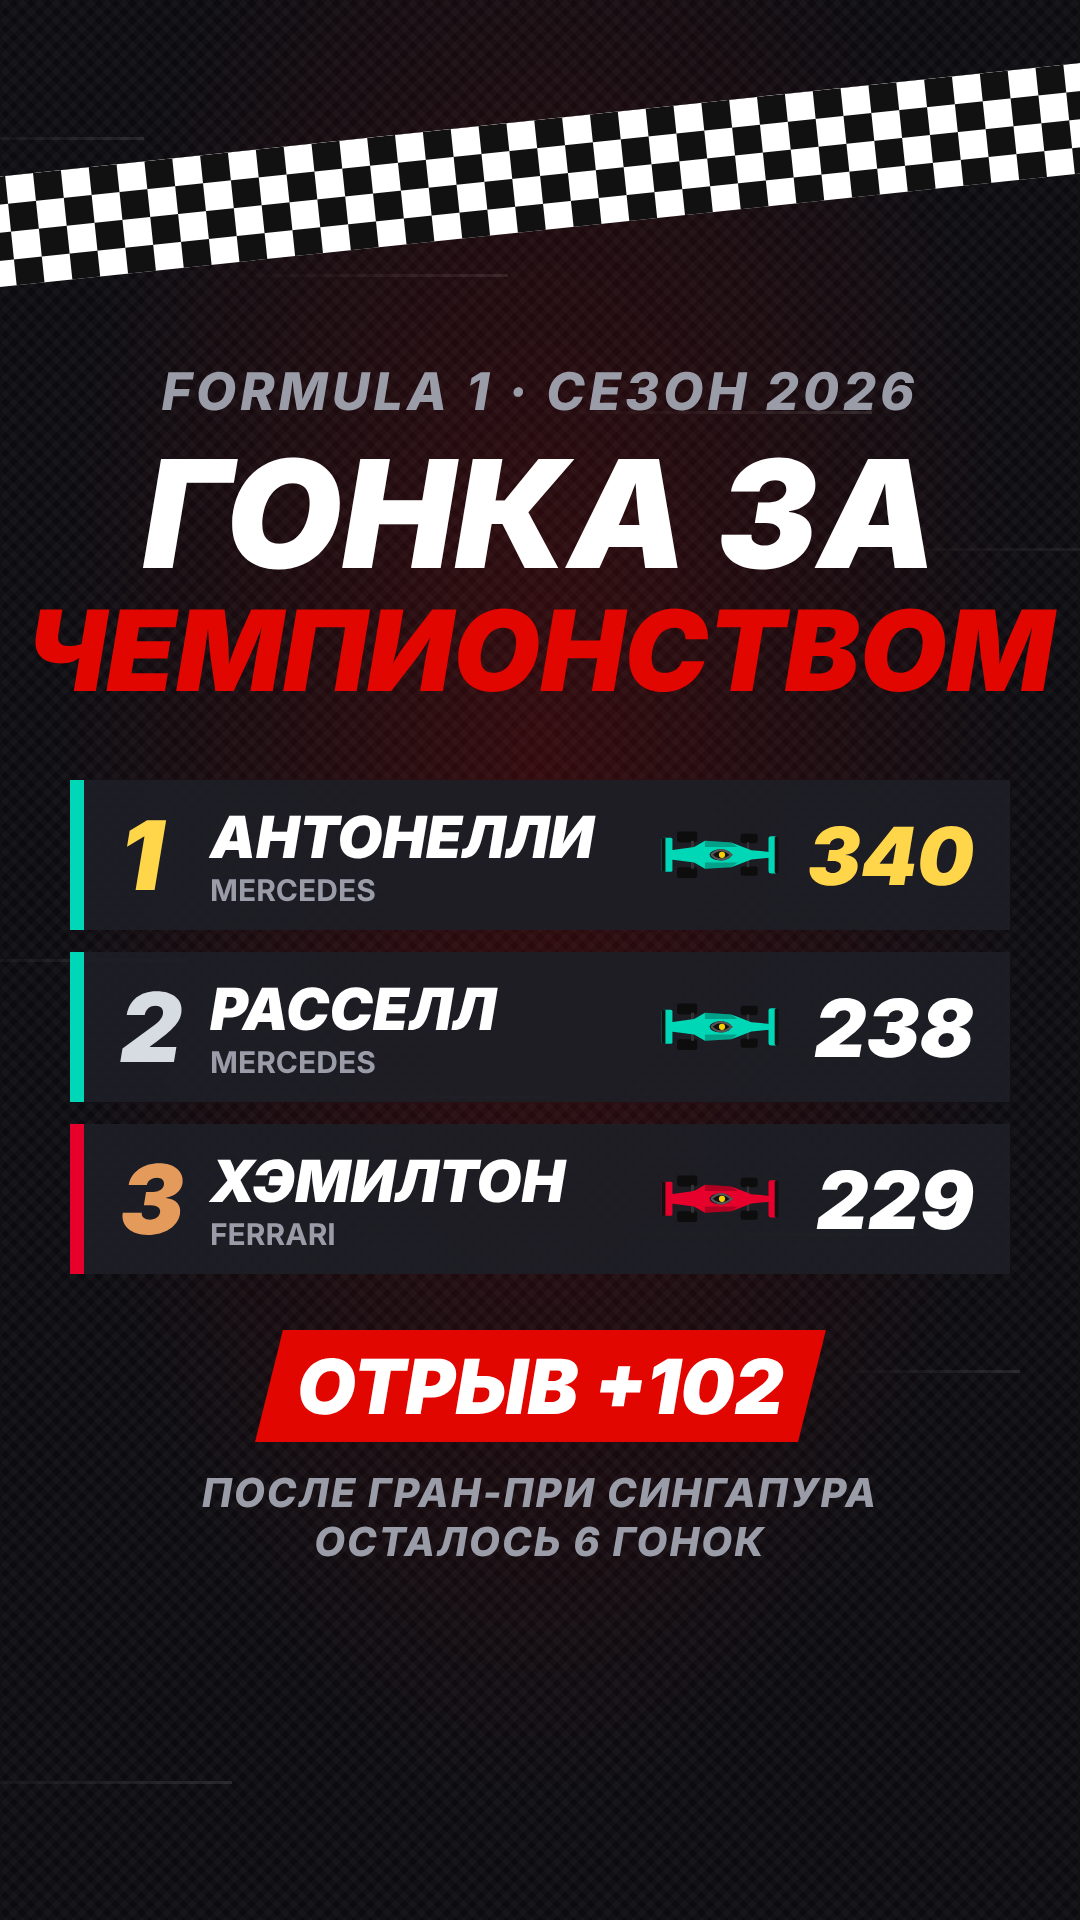
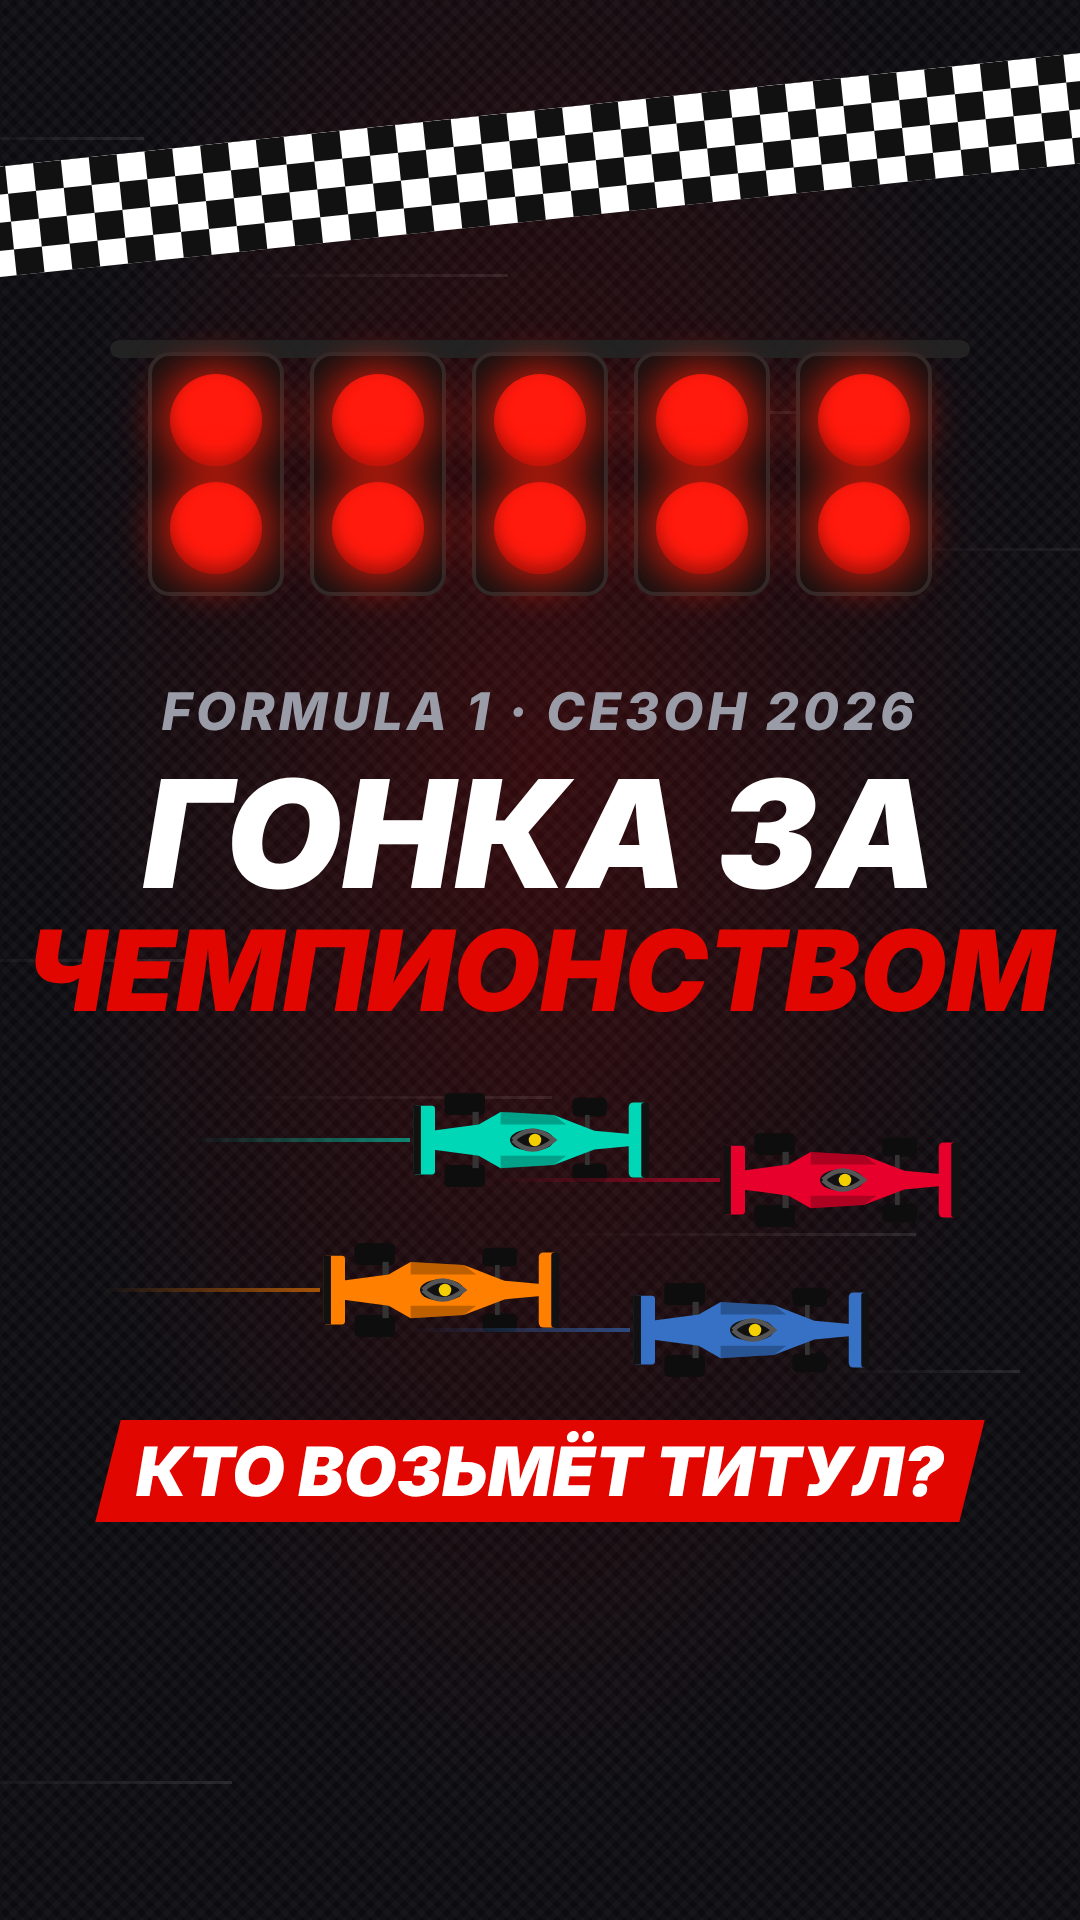
Cover: drop standings, show start lights, cars and the title question
Claude-Session: https://claude.ai/code/session_01K1Pe1Z2ZBjTSVdDFnPusvd

Changed region(s): [[0.0, 0.0312, 1.0, 0.8125]]

diff --git a/f1-2026-video/src/Cover.tsx b/f1-2026-video/src/Cover.tsx
@@ -1,13 +1,8 @@
 import React from "react";
 import { AbsoluteFill } from "remotion";
 import { Car } from "./Car";
-import {
-  GAP_P1_P2,
-  RACES_LEFT,
-  STANDINGS,
-  STANDINGS_AFTER,
-  TEAM_COLORS,
-} from "./data";
+import { TEAM_COLORS } from "./data";
+import { LightPod } from "./scenes/Intro";
 import {
   Checkered,
   FONT,
@@ -18,9 +13,16 @@ import {
   TEXT,
 } from "./theme";
 
-const MEDAL = ["#FFD54A", "#D7DCE2", "#E39A5B"];
+// Болиды на обложке: [команда, сдвиг по x, y]
+const GRID = [
+  ["Mercedes", 120, 0],
+  ["Ferrari", 430, 40],
+  ["McLaren", 30, 150],
+  ["Red Bull", 340, 190],
+] as const;
 
-// Обложка для TikTok: всё важное выше нижней четверти и левее кнопок справа
+// Обложка для TikTok без результатов: всё важное выше нижней четверти
+// и левее кнопок справа
 export const Cover: React.FC = () => {
   return (
     <AbsoluteFill name="Cover" style={{ fontFamily: FONT, color: TEXT }}>
@@ -30,10 +32,27 @@ export const Cover: React.FC = () => {
         width={1400}
         height={110}
         cell={28}
-        style={{ position: "absolute", left: -160, top: 120, rotate: "-6deg" }}
+        style={{ position: "absolute", left: -160, top: 110, rotate: "-6deg" }}
       />
 
-      <AbsoluteFill name="Title" style={{ top: 360, alignItems: "center" }}>
+      <AbsoluteFill name="Lights" style={{ top: 340, alignItems: "center" }}>
+        <div
+          style={{
+            width: 860,
+            height: 18,
+            backgroundColor: "#222",
+            borderRadius: 9,
+            marginBottom: -6,
+          }}
+        />
+        <div style={{ display: "flex", gap: 26 }}>
+          {[0, 1, 2, 3, 4].map((i) => (
+            <LightPod key={i} on />
+          ))}
+        </div>
+      </AbsoluteFill>
+
+      <AbsoluteFill name="Title" style={{ top: 680, alignItems: "center" }}>
         <div
           style={{
             fontSize: 52,
@@ -69,79 +88,28 @@ export const Cover: React.FC = () => {
         </div>
       </AbsoluteFill>
 
-      <AbsoluteFill
-        name="Top3"
-        style={{ top: 780, left: 70, width: 940, gap: 22 }}
-      >
-        {STANDINGS.slice(0, 3).map((d, i) => (
+      <AbsoluteFill name="Cars" style={{ top: 1090, left: 70 }}>
+        {GRID.map(([team, x, y]) => (
           <div
-            key={d.code}
-            style={{
-              display: "flex",
-              alignItems: "center",
-              height: 150,
-              padding: "0 36px",
-              backgroundColor: "rgba(29,30,38,0.92)",
-              borderLeft: `14px solid ${TEAM_COLORS[d.team]}`,
-            }}
+            key={team}
+            style={{ position: "absolute", left: x, top: y, display: "flex" }}
           >
             <div
               style={{
-                width: 90,
-                fontSize: 96,
-                fontWeight: 900,
-                fontStyle: "italic",
-                color: MEDAL[i],
+                width: 220,
+                height: 4,
+                alignSelf: "center",
+                background: `linear-gradient(90deg, transparent, ${TEAM_COLORS[team]})`,
+                opacity: 0.6,
               }}
-            >
-              {d.pos}
-            </div>
-            <div style={{ flex: 1 }}>
-              <div
-                style={{ fontSize: 58, fontWeight: 900, fontStyle: "italic" }}
-              >
-                {d.lastName.toUpperCase()}
-              </div>
-              <div style={{ fontSize: 30, fontWeight: 700, color: MUTED }}>
-                {d.team.toUpperCase()}
-              </div>
-            </div>
-            <Car color={TEAM_COLORS[d.team]} width={124} />
-            <div
-              style={{
-                width: 190,
-                textAlign: "right",
-                fontSize: 80,
-                fontWeight: 900,
-                fontStyle: "italic",
-                color: i === 0 ? MEDAL[0] : TEXT,
-              }}
-            >
-              {d.points}
-            </div>
+            />
+            <Car color={TEAM_COLORS[team]} width={250} />
           </div>
         ))}
       </AbsoluteFill>
 
-      <AbsoluteFill
-        name="Tags"
-        style={{ top: 1330, alignItems: "center", gap: 26 }}
-      >
-        <RedTag style={{ fontSize: 76 }}>ОТРЫВ +{GAP_P1_P2}</RedTag>
-        <div
-          style={{
-            fontSize: 40,
-            fontWeight: 800,
-            fontStyle: "italic",
-            color: MUTED,
-            letterSpacing: 2,
-            textAlign: "center",
-          }}
-        >
-          {STANDINGS_AFTER}
-          <br />
-          ОСТАЛОСЬ {RACES_LEFT} ГОНОК
-        </div>
+      <AbsoluteFill name="Question" style={{ top: 1420, alignItems: "center" }}>
+        <RedTag style={{ fontSize: 68 }}>КТО ВОЗЬМЁТ ТИТУЛ?</RedTag>
       </AbsoluteFill>
     </AbsoluteFill>
   );

diff --git a/f1-2026-video/src/scenes/Intro.tsx b/f1-2026-video/src/scenes/Intro.tsx
@@ -15,7 +15,7 @@ const LIGHT_STEP = 12;
 const FIRST_LIGHT = 14;
 const LIGHTS_OUT = FIRST_LIGHT + LIGHT_STEP * 4 + 18;
 
-const LightPod: React.FC<{ on: boolean }> = ({ on }) => (
+export const LightPod: React.FC<{ on: boolean }> = ({ on }) => (
   <div
     style={{
       width: 136,
